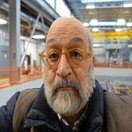
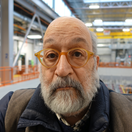
Minor.

diff --git a/pisameet/raster.py b/pisameet/raster.py
@@ -187,6 +187,10 @@ def face_bbox(file_path: str, min_frac_size: float = 0.15, padding: float = 1.85
         delta = (h - w) // 2
         ymin += delta
         ymax -= delta
+    elif h < w:
+        delta = (w - h) // 2
+        xmin += delta
+        xmax -= delta
     w = xmax - xmin
     h = ymax - ymin
     if abs(w - h) > 1:
